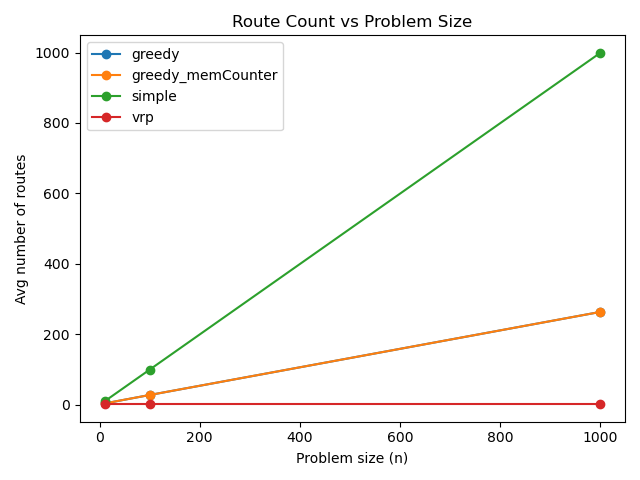
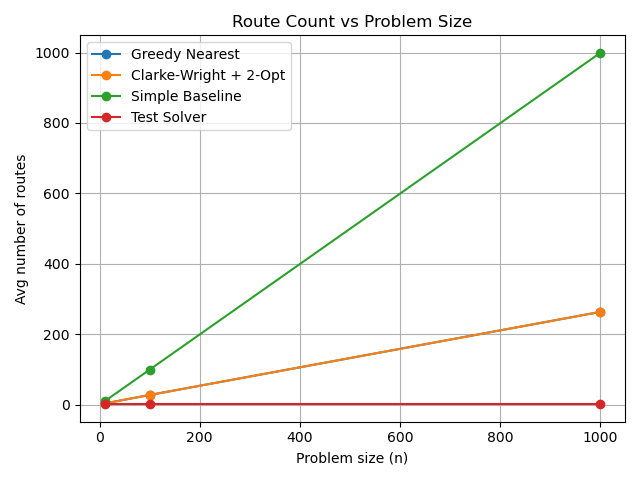
updated files

diff --git a/plot_benchmark.py b/plot_benchmark.py
@@ -10,24 +10,34 @@ if not os.path.exists(CSV_FILE):
 df = pd.read_csv(CSV_FILE)
 
 # Ensure proper types
-df['n'] = df['n'].astype(int)
-df['time_s'] = pd.to_numeric(df['time_s'])
+df['n']           = df['n'].astype(int)
+df['time_s']      = pd.to_numeric(df['time_s'])
 df['peak_mem_mb'] = pd.to_numeric(df['peak_mem_mb'])
-df['total_dist'] = pd.to_numeric(df['total_dist'])
+df['total_dist']  = pd.to_numeric(df['total_dist'])
 df['route_count'] = df['route_count'].astype(int)
 
 # Focus on random instances for scaling plots
 rand = df[df['test_type'] == 'random']
 
+# Map internal solver names to friendly labels
+label_map = {
+    'simple': 'Simple Baseline',
+    'greedy': 'Greedy Nearest',
+    'greedy_memCounter': 'Clarke‑Wright + 2‑Opt',
+    'vrp': 'Test Solver'
+}
+
 def plot_and_save(x, y, ylabel, title, filename):
     plt.figure()
     for solver in rand['solver'].unique():
         grp = rand[rand['solver'] == solver].groupby(x)[y].mean().reset_index()
-        plt.plot(grp[x], grp[y], marker='o', label=solver)
+        label = label_map.get(solver, solver)
+        plt.plot(grp[x], grp[y], marker='o', label=label)
     plt.xlabel('Problem size (n)')
     plt.ylabel(ylabel)
     plt.title(title)
     plt.legend()
+    plt.grid(True)
     plt.tight_layout()
     plt.savefig(filename)
     plt.close()
